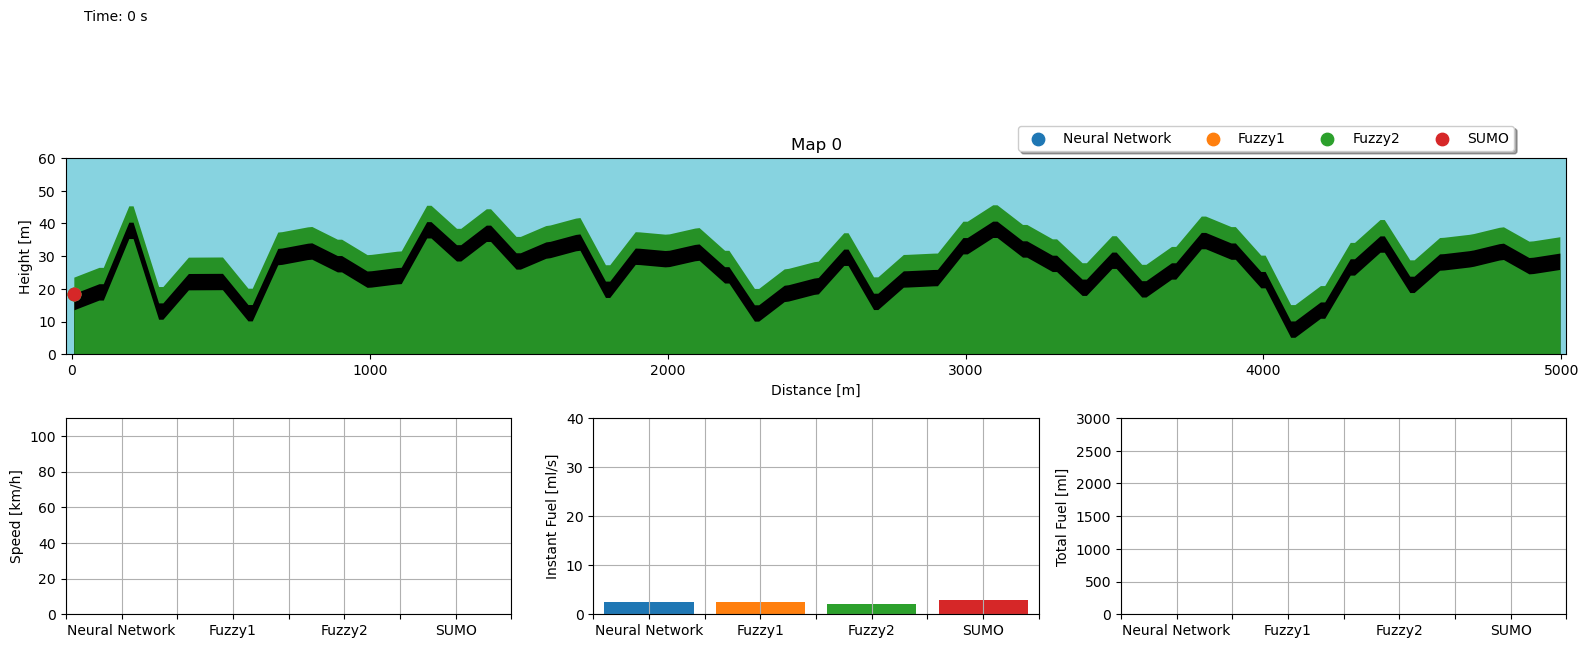
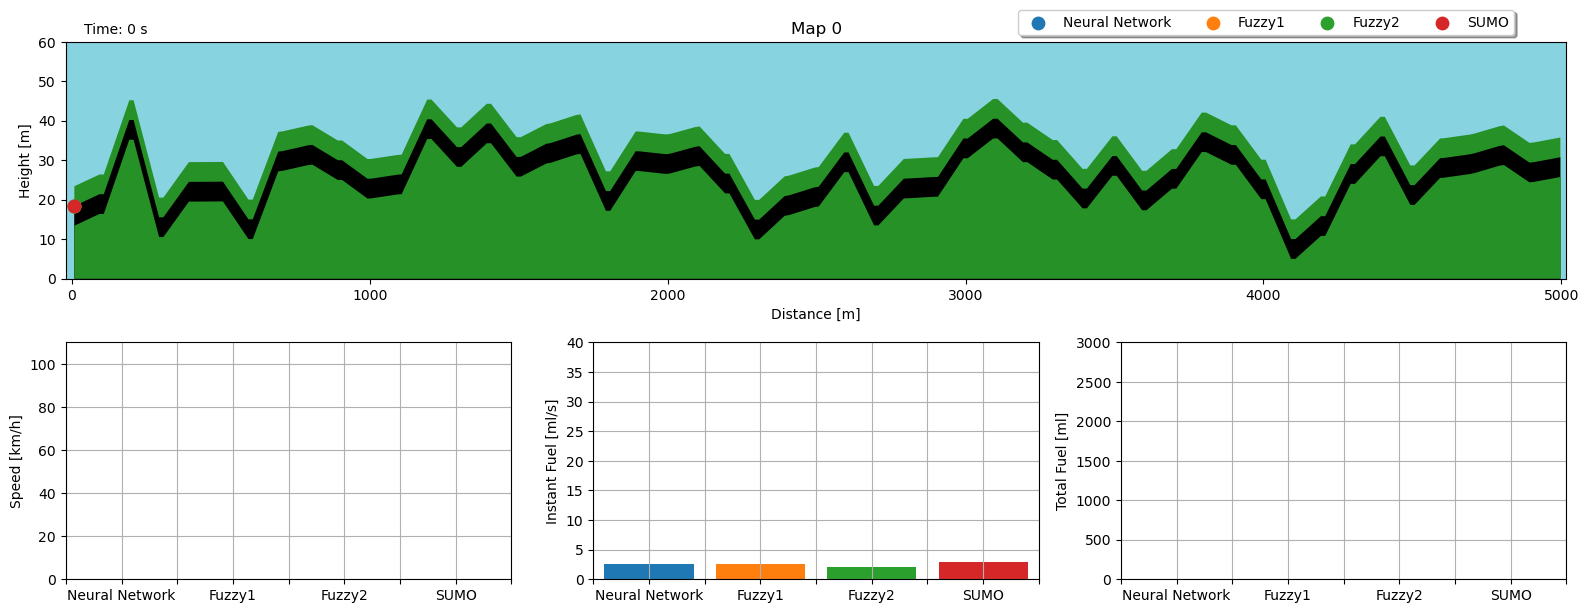
.gif legends, axis and colors ok

diff --git a/vid.py b/vid.py
@@ -157,7 +157,7 @@ def main():
             ax.legend(loc='lower center', bbox_to_anchor=(0.8, 1.0),  ncol=4, fancybox=True, shadow=True)
 
 
-            ax.text(40, 102, "Time: "+str(step)+" s", ha='left')
+            ax.text(40, 62, "Time: "+str(step)+" s", ha='left')
 
             ax = fig.add_subplot(gs[1, 0])
             # ax.set_xlabel("Approach")
